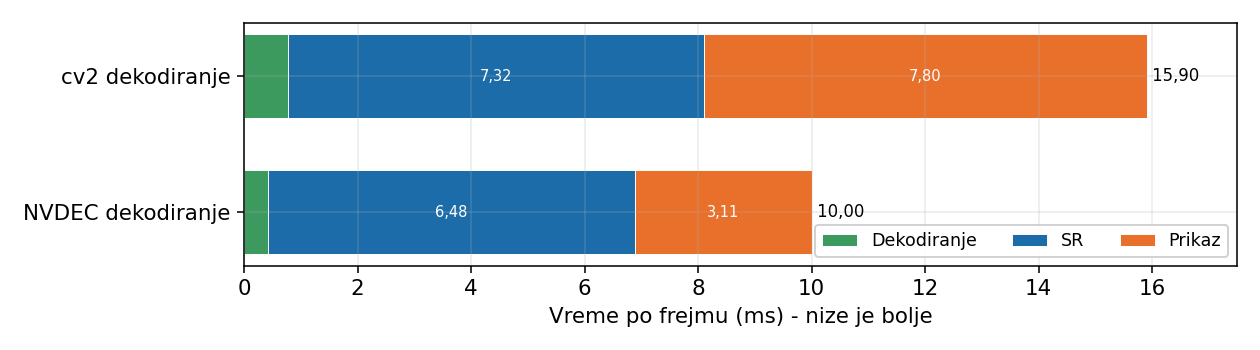
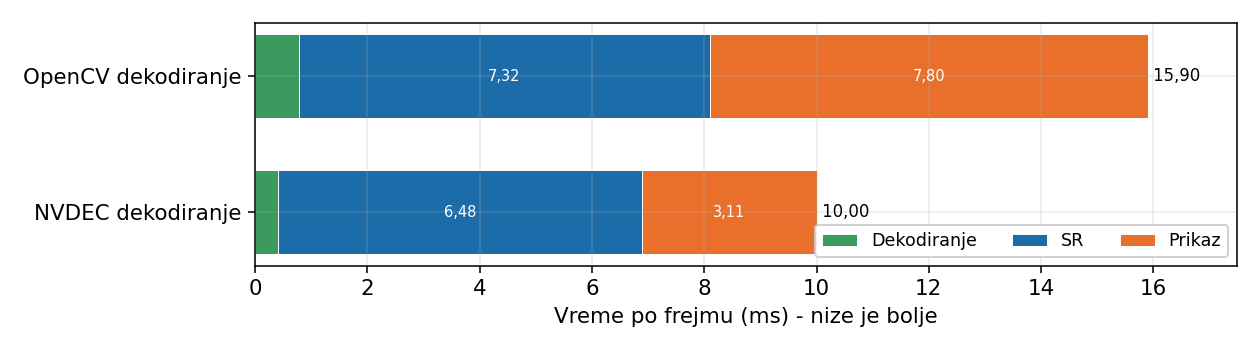
Updated results

diff --git a/scripts/glsl/glsl_script_fastedsr_multi.py b/scripts/glsl/glsl_script_fastedsr_multi.py
@@ -189,7 +189,7 @@ def get_conv_shader(W, b, out_group, name, prev_name, relu, skip_name, in_start,
 
 
 # First conv - reads from MAIN
-def get_conv_shader_MAIN(W, b, out_group, name, when):
+def get_conv_shader_MAIN(W, b, out_group, name, when, relu=False):
     code = f"""//!DESC {name} Conv3x3 part {out_group}
 //!HOOK MAIN
 //!BIND MAIN
@@ -204,6 +204,7 @@ vec4 hook() {{
 """
     code += get_conv_single_group_lines(W, out_group, 0)
     code += get_vec4_bias(b, out_group) + "\n"
+    if relu: code += "    result = max(result, 0.0);\n"
     code += "    return result;\n}\n"
     return code
 
@@ -228,7 +229,7 @@ def get_conv3x3(W, name, prev_name, relu=False, skip_name=None, chunk_size=8, wh
     code = ""
     for i in range(num_shaders):
         if prev_name is None:
-            code += get_conv_shader_MAIN(weight, bias, i, name, when)
+            code += get_conv_shader_MAIN(weight, bias, i, name, when, relu)
         else:
             num_in_groups = int(ceil(input_ch / 4))
             num_chunks = int(ceil(num_in_groups / chunk_size))
@@ -276,12 +277,28 @@ and normalize to [0-1]
         
 We get our result               vec3 res = vec3(p0[idx], p1[idx], p2[idx]);
 and add to upscaled image       vec3 final_output = MAIN_tex(MAIN_pos).rgb + res;
+
+anchor - what the residual is added to:
+    "bilinear" -> MAIN_tex(MAIN_pos)    MAIN is sampled at the HR pixel position, the GPU linear filter
+                                        gives bilinear upscale (FastEDSR, align_corners=False)
+    "nearest"  -> MAIN_tex(tex_coord)   MAIN is sampled at the LR texel center, the linear filter returns
+                                        that texel exactly = nearest upscale (ABPN anchor)
         
 ############################################
 """
 
+ANCHORS = {
+    "bilinear": "MAIN_tex(MAIN_pos).rgb",
+    "nearest": "MAIN_tex(tex_coord).rgb",
+}
 
-def get_pixel_shuffle_x2(prev_name, when):
+# WHEN conditions that pick the upscale block by the OUTPUT/MAIN ratio
+WHEN_X2 = "OUTPUT.w MAIN.w / 1.2 > OUTPUT.h MAIN.h / 1.2 > + OUTPUT.w MAIN.w / 2.2 < OUTPUT.h MAIN.h / 2.2 < + *"
+WHEN_X3 = "OUTPUT.w MAIN.w / 2.2 >= OUTPUT.h MAIN.h / 2.2 >= + OUTPUT.w MAIN.w / 3.2 < OUTPUT.h MAIN.h / 3.2 < + *"
+WHEN_X4 = "OUTPUT.w MAIN.w / 3.2 >= OUTPUT.h MAIN.h / 3.2 >= +"
+
+
+def get_pixel_shuffle_x2(prev_name, when, anchor="bilinear"):
     prev_name = prev_name.replace(".", "_")
 
     code = f"""//!DESC PixelShuffle x2
@@ -307,7 +324,7 @@ vec4 hook() {{
     vec4 p2 = conv_{prev_name}_p2_tex(tex_coord);
 
     vec3 res = vec3(p0[idx], p1[idx], p2[idx]);
-    vec3 final_output = MAIN_tex(MAIN_pos).rgb + res;
+    vec3 final_output = {ANCHORS[anchor]} + res;
 
     return vec4(clamp(final_output, 0.0, 1.0), 1.0);
 }}
@@ -315,7 +332,7 @@ vec4 hook() {{
     return code
 
 
-def get_pixel_shuffle_x3(prev_name, when):
+def get_pixel_shuffle_x3(prev_name, when, anchor="bilinear"):
     prev_name = prev_name.replace(".", "_")
 
     # 3x3 * 3 channels = 27 output channels => ceil(27/4) = 7 textures (p0..p6)
@@ -360,7 +377,7 @@ vec4 hook() {{
     float b = (b_ch < 20) ? p4[b_ch-16] : (b_ch < 24) ? p5[b_ch-20] : (b_ch < 28) ? p6[b_ch-24] : 0.0;
 
     vec3 res = vec3(r, g, b);
-    vec3 final_output = MAIN_tex(MAIN_pos).rgb + res;
+    vec3 final_output = {ANCHORS[anchor]} + res;
 
     return vec4(clamp(final_output, 0.0, 1.0), 1.0);
 }}
@@ -368,7 +385,7 @@ vec4 hook() {{
     return code
 
 
-def get_pixel_shuffle_x4(prev_name, when):
+def get_pixel_shuffle_x4(prev_name, when, anchor="bilinear"):
     prev_name = prev_name.replace(".", "_")
 
     # 4x4 * 3 channels = 48 output channels => ceil(48/4) = 12 textures (p0..p11)
@@ -421,7 +438,7 @@ vec4 hook() {{
             : (b_ch < 44) ? p10[b_ch-40] : p11[b_ch-44];
 
     vec3 res = vec3(r, g, b);
-    vec3 final_output = MAIN_tex(MAIN_pos).rgb + res;
+    vec3 final_output = {ANCHORS[anchor]} + res;
 
     return vec4(clamp(final_output, 0.0, 1.0), 1.0);
 }}
@@ -432,21 +449,21 @@ vec4 hook() {{
 # Get upscale block for 2x scale (shuffle conv + pixel shuffle)
 def get_upscale_block_x2(W, prev_name):
     final_conv_name = f"upscale_block_2.0"
-    when = "OUTPUT.w MAIN.w / 1.2 > OUTPUT.h MAIN.h / 1.2 > + OUTPUT.w MAIN.w / 2.2 < OUTPUT.h MAIN.h / 2.2 < + *"
+    when = WHEN_X2
     return (get_conv3x3(W, name=final_conv_name, prev_name=prev_name, when=when) +
             get_pixel_shuffle_x2(prev_name=final_conv_name, when=when))
 
 
 def get_upscale_block_x3(W, prev_name):
     final_conv_name = f"upscale_block_3.0"
-    when = "OUTPUT.w MAIN.w / 2.2 >= OUTPUT.h MAIN.h / 2.2 >= + OUTPUT.w MAIN.w / 3.2 < OUTPUT.h MAIN.h / 3.2 < + *"
+    when = WHEN_X3
     return (get_conv3x3(W, name=final_conv_name, prev_name=prev_name, when=when) +
             get_pixel_shuffle_x3(prev_name=final_conv_name, when=when))
 
 
 def get_upscale_block_x4(W, prev_name):
     final_conv_name = f"upscale_block_4.0"
-    when = "OUTPUT.w MAIN.w / 3.2 >= OUTPUT.h MAIN.h / 3.2 >= +"
+    when = WHEN_X4
     return (get_conv3x3(W, name=final_conv_name, prev_name=prev_name, when=when) +
             get_pixel_shuffle_x4(prev_name=final_conv_name, when=when))
 
@@ -454,11 +471,11 @@ def get_upscale_block_x4(W, prev_name):
 ##############################################
 
 if __name__ == "__main__":
-    checkpoint_path = get_checkpoints_path("multiscale/SR_FastEDSR_jpeg_4_32_s.pth")
+    checkpoint_path = get_checkpoints_path("multiscale/SR_FastEDSR_4_64.pth")
 
     output_path_2 = get_project_root(f"exports/glsl/{checkpoint_path.stem}.glsl")
-    output_path_3 = Path(f"C:/Users/User/Tools/mpv/shaders/{checkpoint_path.stem}.glsl")
-    output_path = Path("C:/Users/User/Tools/mpv/shaders/current.glsl")
+    output_path_3 = Path(f"C:/Users/yoigg/Tools/mpv/shaders/{checkpoint_path.stem}.glsl")
+    output_path = Path("C:/Users/yoigg/Tools/mpv/shaders/current.glsl")
 
     output_path_2.parent.mkdir(parents=True, exist_ok=True)
 
@@ -494,7 +511,7 @@ if __name__ == "__main__":
     output_path_2.write_text(code)
     output_path_3.write_text(code)
 
-    exit()
+    # exit()
 
     subprocess.run(["powershell", "-Command",
-                    'rm C:\\Users\\User\\AppData\\Local\\mpv\\cache\\*; mpv.exe --msg-level=vo=debug,gpu=debug C:\\Users\\User\\PycharmProjects\\Pytorch\\super-resolution-cnn\\videoinput\\F1Bahr-240p50.mp4 '])
+                    'rm C:\\Users\\yoigg\\AppData\\Local\\mpv\\cache\\*; mpv.exe --msg-level=vo=debug,gpu=debug C:\\Users\\yoigg\\PycharmProjects\\Pytorch\\super-resolution-cnn\\videoinput\\F1Bahr-720p50.mp4 '])

diff --git a/scripts/analysis/fp16_vs_fp32/fp16_vs_fp32_speed_diff.py b/scripts/analysis/fp16_vs_fp32/fp16_vs_fp32_speed_diff.py
@@ -34,8 +34,8 @@ CONFIG_DEFAULTS = {
     "name": "default",  # koristi se za imena izlaznih fajlova
     "fp16_results": "results_2x_FPS.csv",  # CSV sa FP16 merenjima brzine
     "fp32_results": "results_2x_FPS_fp32.csv",  # CSV sa FP32 merenjima brzine
-    "fp16_runtype": None,  # vrednost kolone runtype za FP16 (uz isti CSV)
-    "fp32_runtype": None,  # vrednost kolone runtype za FP32 (uz isti CSV)
+    "fp16_runtype": "tensorrt",  # vrednost kolone runtype za FP16 (None -> bez filtera)
+    "fp32_runtype": "tensorrt",  # vrednost kolone runtype za FP32 (None -> bez filtera)
     "res": ["480p"],  # rezolucije (kolone) za poredjenje
     "archs": None,  # zadrzi samo ove arhitekture (npr. ["EDSR"])
     "include": None,  # zadrzi samo modele cije ime sadrzi neku nisku
@@ -46,6 +46,7 @@ CONFIG_DEFAULTS = {
     "plot_out": None,  # None -> ..._<name>.png
     "no_log": False,  # True -> samo ispis na ekran, bez fajla
     "no_plot": False,  # True -> bez grafika
+    "show_title": False,  # True -> naslov iznad grafika
     "dpi": 140,
 }
 
@@ -57,10 +58,6 @@ CONFIGS = [
         "name": "480p",
         "res": ["480p"],
     },
-    {
-        "name": "480p_720p",
-        "res": ["480p", "720p"],
-    },
 ]
 
 
@@ -70,6 +67,7 @@ CONFIGS = [
 def load_side(path: Path, runtype, keep, cfg):
     """Vrati {model_name: {"params": p, res: fps, ...}} za jednu precinost."""
     out = {}
+    dupes = set()
     required = list(cfg.res) + (["runtype"] if runtype is not None else [])
     for r in read_rows(path, required):
         name = r.get("model_name", "")
@@ -89,7 +87,14 @@ def load_side(path: Path, runtype, keep, cfg):
             v = to_float(r.get(col))
             if v:
                 rec[col] = v
+        if name in out:
+            dupes.add(name)
         out[name] = rec
+    # Vise redova za isti model (npr. razliciti runtype) -> pobedio bi poslednji red.
+    if dupes:
+        print(f"UPOZORENJE: {path.name} (runtype={runtype}) ima {len(dupes)} modela u vise "
+              f"redova; koristi se poslednji red. Zadaj runtype filter. "
+              f"Npr: {', '.join(sorted(dupes)[:3])}", file=sys.stderr)
     return out
 
 
@@ -156,7 +161,7 @@ def report(summary, fp16_path, fp32_path, n_common):
     print(f"Uparenih modela: {n_common}  (ubrzanje = FPS FP16 / FPS FP32)")
     print()
     header = (f"{'Rez.':<8} {'N':>4} {'min':>8} {'prosek':>8} {'medijana':>10} "
-              f"{'max':>8} {'FP16 brzi':>10}   najvece / najmanje ubrzanje")
+              f"{'max':>8} {'FP16 brži':>10}   najvece / najmanje ubrzanje")
     print(header)
     print("-" * len(header))
     for res, n, mn, mean, med, mx, faster_n, best_model, worst_model in summary:
@@ -184,15 +189,18 @@ def plot(series, cfg, plot_name):
                    label=res, edgecolors="white", linewidths=0.4)
 
     ax.axhline(1.0, color="#c0392b", ls="--", lw=1.1)
-    ax.text(0.99, 1.02, "FP16 brzi (iznad linije)", transform=ax.get_yaxis_transform(),
+    ax.text(0.99, 1.02, "FP16 brži (iznad linije)", transform=ax.get_yaxis_transform(),
             color="#c0392b", fontsize=8.5, ha="right", va="bottom")
 
     ax.set_xscale("log")
     set_param_ticks(ax, all_p)
     ax.set_xlabel("Broj parametara (log)")
-    ax.set_ylabel("ubrzanje (FPS FP16 / FPS FP32)")
-    ax.set_title("Ubrzanje FP16 nad FP32")
-    ax.legend(loc="best", fontsize=9)
+    ax.set_ylabel("Ubrzanje (FPS FP16 / FPS FP32)")
+    if cfg.show_title:
+        ax.set_title("Ubrzanje FP16 nad FP32")
+    # Legenda ima smisla samo ako je nacrtano vise rezolucija.
+    if sum(1 for res in cfg.res if series[res]) > 1:
+        ax.legend(loc="best", fontsize=9)
     fig.tight_layout()
 
     return save_fig(fig, get_results_path("analysis/fp16_vs_fp32") / plot_name)

diff --git a/scripts/analysis/runtimes/runtimes_compare.py b/scripts/analysis/runtimes/runtimes_compare.py
@@ -7,7 +7,7 @@ pocinju sa "onnxruntime-"; sa filterom se uzimaju tacno zadati (npr. i native
 "tensorrt", "ncnn-vulkan"). Za svaki runtype se uzima prosek vrednosti preko
 modela koji su zajednicki za sve ukljucene backend-e (fer poredjenje na istom
 skupu modela). Nazivi runtype-ova se mapiraju na citljive oznake (ORT-TensorRT,
-ORT-CUDA, ORT-DirectML, TensorRT, ncnn-Vulkan).
+ORT-CUDA, ORT-DirectML, TensorRT, NCNN-Vulkan).
 
 Podesavanje ide iskljucivo preko CONFIGS liste ispod - bez argumenata komandne
 linije. Sve konfiguracije se obradjuju u jednom pokretanju i daju odvojenu sliku
@@ -67,6 +67,7 @@ CONFIG_DEFAULTS = {
     "out": None,  # None -> runtimes_<name>.png
     "legend_loc": "upper left",  # pozicija legende (matplotlib loc), "upper left", "lower right", "best"
     "show_title": False,  # True -> naslov iznad grafika
+    "show_metric": False,  # False -> bez oznake na y-osi kad je samo 1 metrika (ne vazi za group_by="size")
     "dpi": 140,
 }
 
@@ -110,6 +111,7 @@ CONFIGS = [
         "metrics": ["sr"],
         "unit": "fps",
         "group_by": "size",
+        "legend_loc": "lower right",
         "runtypes": ["onnxruntime-tensorrt", "tensorrt"],
     },
     {
@@ -185,7 +187,8 @@ def load_data(path, cols, cfg):
     return order_runtypes(data, cfg.runtypes), data, params
 
 
-def plot(runtypes, group_labels, values, title, unit, legend_loc, dpi, show_title=False):
+def plot(runtypes, group_labels, values, title, unit, legend_loc, dpi, show_title=False,
+         show_ylabels=True):
     """Grupisani horizontalni bar grafik: grupe na y-osi, bar po runtype-u.
 
     group_labels su oznake grupa (metrike ili velicine modela), a
@@ -211,7 +214,11 @@ def plot(runtypes, group_labels, values, title, unit, legend_loc, dpi, show_titl
             ax.text(v, y, zf(v, bar_spec), va="center", ha="left", fontsize=8.5)
 
     ax.set_yticks(centers)
-    ax.set_yticklabels(group_labels)
+    if show_ylabels:
+        ax.set_yticklabels(group_labels)
+    else:
+        ax.tick_params(axis="y", left=False, labelleft=False)
+        ax.grid(False, axis="y")  # bez oznake ostala bi samo linija mreze kroz sredinu
     ax.invert_yaxis()  # prva grupa na vrhu
     ax.set_xlabel(xlabel)
     if show_title:
@@ -276,7 +283,11 @@ def run_config(cfg):
     title = f"Runtime poredjenje - {cfg.res} ({METRIC_LABELS.get(cfg.metrics[0], cfg.metrics[0])})" \
         if group_by == "size" else f"Runtime poredjenje - {cfg.res}"
 
-    fig = plot(runtypes, group_labels, values, title, unit, cfg.legend_loc, cfg.dpi, cfg.show_title)
+    # Jedina metrika = jedna oznaka na y-osi -> moze da se sakrije; kod "size" oznake ostaju.
+    show_ylabels = cfg.show_metric or group_by == "size" or len(cfg.metrics) > 1
+
+    fig = plot(runtypes, group_labels, values, title, unit, cfg.legend_loc, cfg.dpi, cfg.show_title,
+               show_ylabels)
 
     suffix = "_fps" if unit == "fps" else ""
     out_path = save_fig(fig, get_results_path("analysis/runtimes")

diff --git a/scripts/analysis/runtimes/stage_compare.py b/scripts/analysis/runtimes/stage_compare.py
@@ -79,36 +79,36 @@ CONFIGS = [
     {
         "name": "prosek_decode",
         "model": "prosek",
-        "runtypes": {"tensorrt": "cv2 dekodiranje", "tensorrt-nvdec": "NVDEC dekodiranje"},
+        "runtypes": {"tensorrt": "OpenCV dekodiranje", "tensorrt-nvdec": "NVDEC dekodiranje"},
     },
     {
         "name": "prosek_display",
         "model": "prosek",
-        "runtypes": {"tensorrt": "cv2 dekodiranje\ncv2 prikaz", "tensorrt-nvdec": "NVDEC dekodiranje\ncv2 prikaz",
+        "runtypes": {"tensorrt": "OpenCV dekodiranje\nOpenCV prikaz", "tensorrt-nvdec": "NVDEC dekodiranje\nOpenCV prikaz",
                      "tensorrt-nvdec-gl": "NVDEC dekodiranje\nOpenGL prikaz"},
     },
     {
         "name": "FastEDSR_4_32",
         "model": "SR_FastEDSR_4_32",
-        "runtypes": {"tensorrt": "cv2 dekodiranje\ncv2 prikaz", "tensorrt-nvdec-gl": "NVDEC dekodiranje\nOpenGL prikaz"}
+        "runtypes": {"tensorrt": "OpenCV dekodiranje\nOpenCV prikaz", "tensorrt-nvdec-gl": "NVDEC dekodiranje\nOpenGL prikaz"}
     },
     {
         "name": "FastEDSR_4_32_3",
         "model": "SR_FastEDSR_4_32",
-        "runtypes": {"tensorrt": "cv2 dekodiranje\ncv2 prikaz", "tensorrt-nvdec": "NVDEC dekodiranje\ncv2 prikaz",
+        "runtypes": {"tensorrt": "OpenCV dekodiranje\nOpenCV prikaz", "tensorrt-nvdec": "NVDEC dekodiranje\nOpenCV prikaz",
                      "tensorrt-nvdec-gl": "NVDEC dekodiranje\nOpenGL prikaz"},
     },
     {
         "name": "FastEDSR_4_32_shaders",
         "model": "SR_FastEDSR_4_32",
-        "runtypes": {"tensorrt": "cv2 dekodiranje\ncv2 prikaz",
+        "runtypes": {"tensorrt": "OpenCV dekodiranje\nOpenCV prikaz",
                      "tensorrt-nvdec-gl": "NVDEC dekodiranje\nOpenGL prikaz",
                      "opengl": "NVDEC dekodiranje\nOpenGL šejderi"}
     },
     {
         "name": "FastEDSR_4_128",
         "model": "SR_FastEDSR_4_128",
-        "runtypes": {"tensorrt": "cv2 dekodiranje\ncv2 prikaz", "tensorrt-nvdec-gl": "NVDEC dekodiranje\nOpenGL prikaz"}
+        "runtypes": {"tensorrt": "OpenCV dekodiranje\nOpenCV prikaz", "tensorrt-nvdec-gl": "NVDEC dekodiranje\nOpenGL prikaz"}
     },
 ]
 
